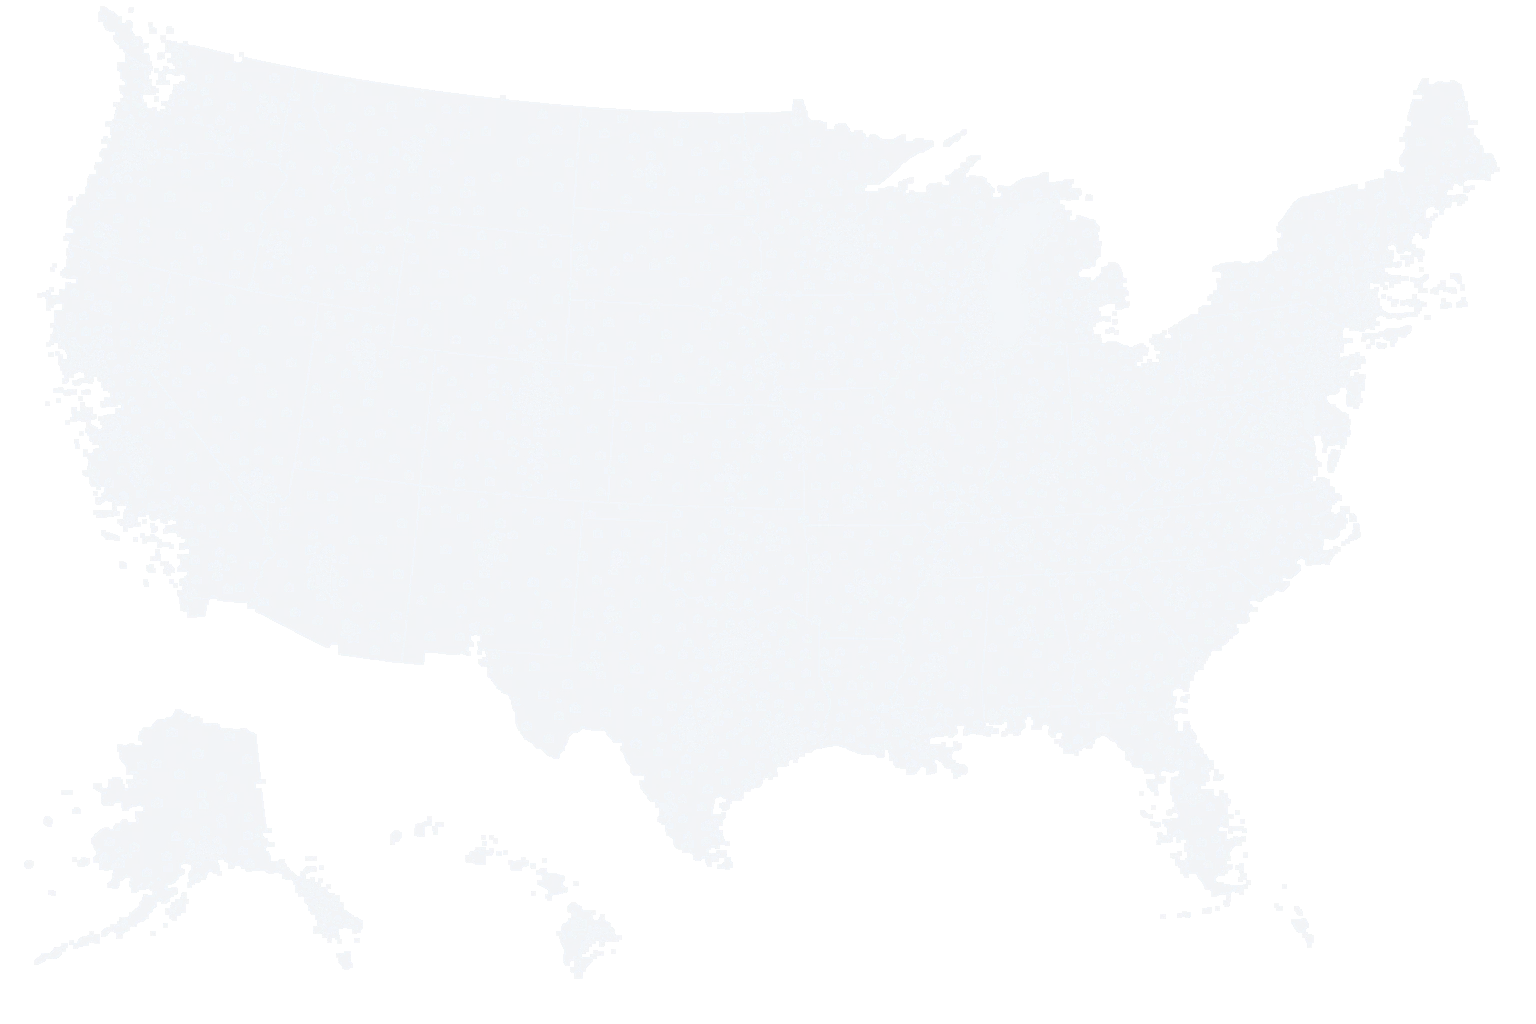
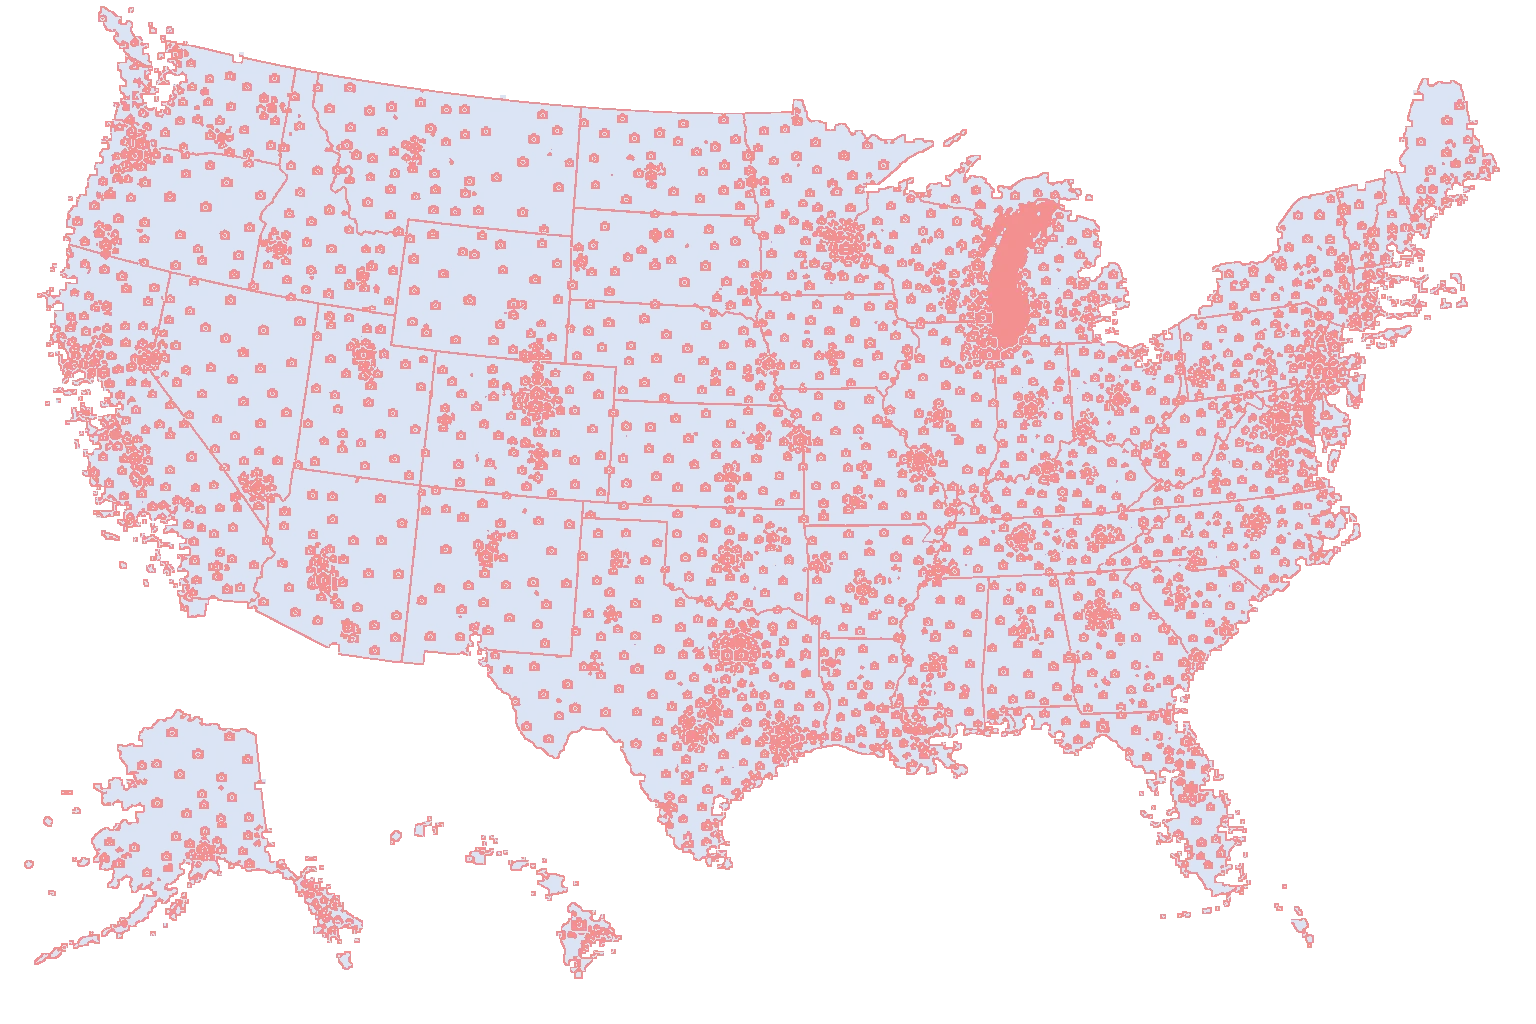
Make the homepage map stand out, and stop browsers using an old stylesheet
The map was too faint to notice, especially on phones. Land is now a deeper blue and the camera markers red, with the darkening kept to the area behind the text. The stylesheet link carries the build time so a deploy shows up without a hard refresh.

Claude-Session: https://claude.ai/code/session_019sJfkqgniYnRRaHRHKDFSF

diff --git a/assets/site.css b/assets/site.css
@@ -52,12 +52,12 @@ img { max-width: 100%; }
 /* A faint map of the country behind the hero, darkened on the left where the text sits. */
 .hero { position: relative; overflow: hidden; isolation: isolate; }
 .hero::before { content: ""; position: absolute; inset: -4% -6% -4% 18%; z-index: -1; pointer-events: none;
-                background: url(/assets/map-bg.webp) center / contain no-repeat; }
+                background: url(/assets/map-bg.webp?v=2) center / contain no-repeat; }
 .hero::after { content: ""; position: absolute; inset: 0; z-index: -1; pointer-events: none;
-               background: linear-gradient(90deg, var(--hero) 22%, rgba(15,17,21,.55) 52%, rgba(15,17,21,0) 80%); }
+               background: linear-gradient(90deg, rgba(15,17,21,.92) 38%, rgba(15,17,21,.6) 52%, rgba(15,17,21,0) 70%); }
 @media (max-width: 900px) {
   .hero::before { inset: 20px -45% auto -45%; height: 520px; background-position: center top; }
-  .hero::after { background: linear-gradient(180deg, rgba(15,17,21,.35), rgba(15,17,21,.6) 420px, var(--hero) 560px); }
+  .hero::after { background: linear-gradient(180deg, rgba(15,17,21,.6), rgba(15,17,21,.7) 420px, var(--hero) 560px); }
 }
 .hero img { width: 104px; height: 104px; border-radius: 24px; box-shadow: 0 10px 40px rgba(0,0,0,.5); }
 .hero h1 { font-size: clamp(2.1rem, 6vw, 3.4rem); line-height: 1.1; letter-spacing: -.02em; margin: 24px auto 12px; max-width: 46rem; }

diff --git a/_layouts/default.html b/_layouts/default.html
@@ -13,7 +13,7 @@
 <meta property="og:description" content="{{ page.description | default: site.description }}">
 <meta property="og:image" content="{{ site.url }}/icon.png">
 <meta property="og:url" content="{{ site.url }}{{ page.url }}">
-<link rel="stylesheet" href="/assets/site.css">
+<link rel="stylesheet" href="/assets/site.css?v={{ site.time | date: '%s' }}">
 </head>
 <body>
 {% include header.html %}
